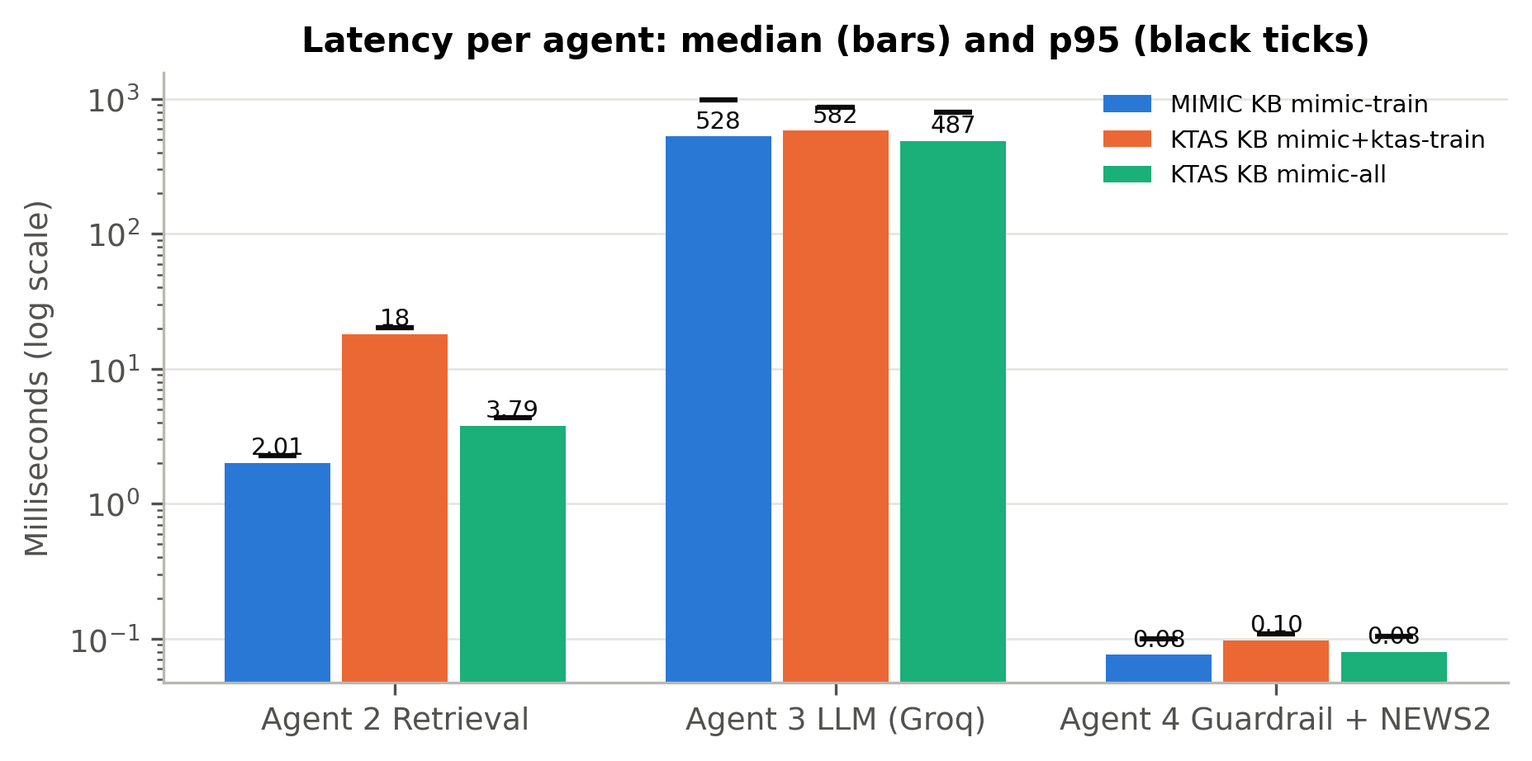
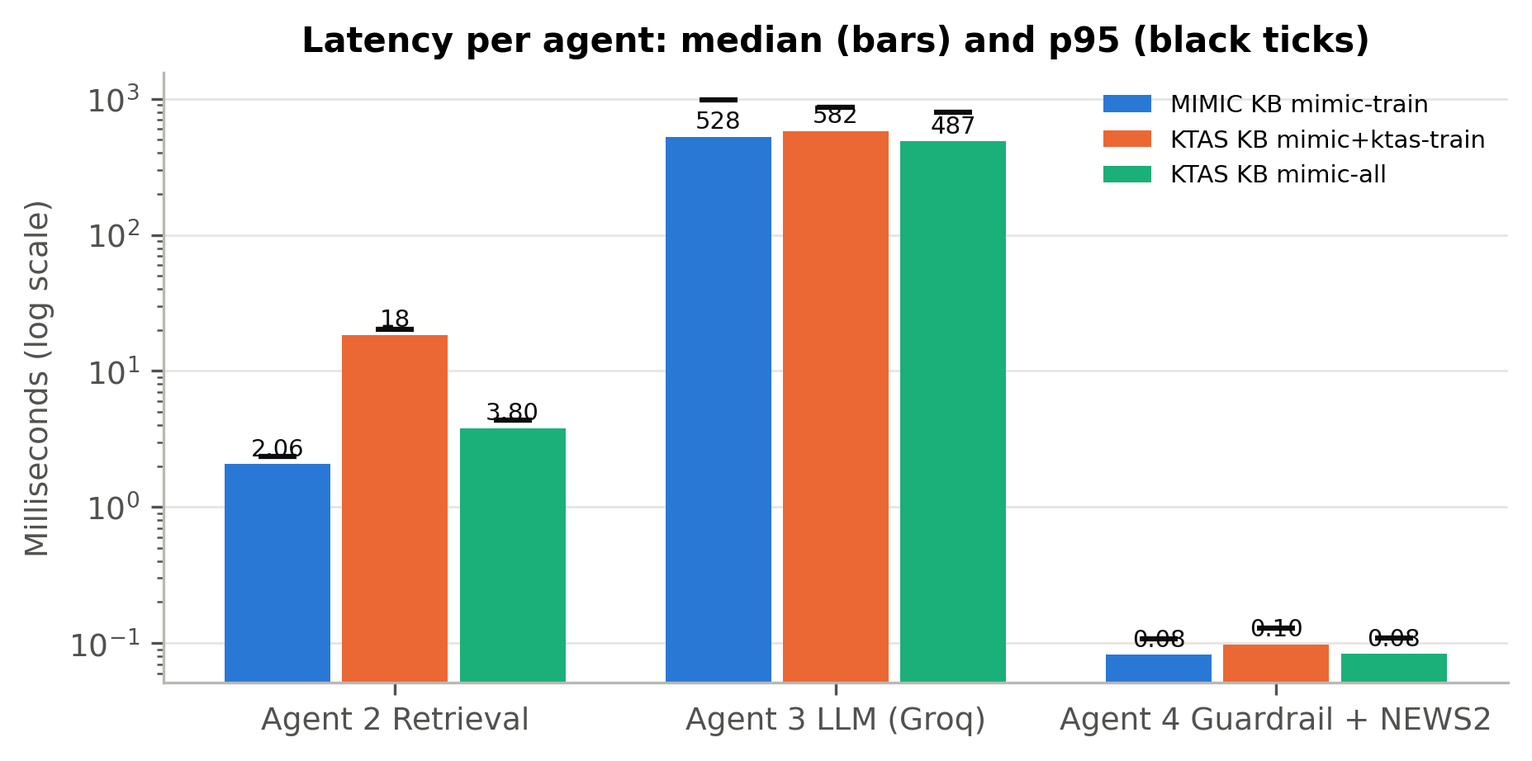
docs+eval: knowledge-base wording (two datasets, three EDs); KTAS MIMIC-only job extended to all 191 cases (required)
All three KTAS LLM jobs now cover the same 191 test cases. Frozen config hash unchanged;
decision recorded in frozen_config.json history, REPORT_FACTS.md and PROGRESS.md.

diff --git a/scripts/build_report_assets.py b/scripts/build_report_assets.py
@@ -222,7 +222,7 @@ def report_facts():
          "- KTAS vitals: Korean '측불' (unmeasurable) -> missing (SBP 25, DBP 29, HR 20, RR 22, BT 18, SpO2 9); SpO2 not recorded at the local ED (688 rows); BT deg C -> deg F", "",
          "## Knowledge base (Agent 2, multi-source; change decided 2026-11-22 before any result of the affected KTAS jobs)",
          "- Sources: two datasets -- MIMIC-IV-ED Demo (Beth Israel Deaconess Medical Center ED, Boston, USA; ESI) and KTAS (two Korean EDs, local + regional; KTAS_expert)",
-         "- Live system (Space) knowledge base: all 222 MIMIC-IV-ED stays + all 1,267 KTAS records = 1,489 cases (about 1,500)",
+         "- Live system (Space) knowledge base: all 222 MIMIC-IV-ED stays + all 1,267 KTAS records = 1,489 cases: about 1,500 records from two datasets (three emergency departments: one in the USA, two in South Korea)",
          "- Evaluation knowledge base for the KTAS main run: all 222 MIMIC-IV-ED stays + KTAS training split only (886) = 1,108 cases; KTAS validation (190) and test (191) records are never in it (runner.kb_frame raises KnowledgeBaseLeak; unit test)",
          "- MIMIC held-out evaluation unchanged: knowledge base = 114 protocol-v2 training stays; not re-run",
          "- Each retrieved case carries its source label ('MIMIC-IV-ED' or 'KTAS'): API field evidence_cases[].source / case_ref, Agent 2 trace output, Clinician Intake and Doctor Portal evidence tables",
@@ -241,7 +241,7 @@ def report_facts():
           "- Development-phase split (kept for the development results): patient-grouped stratified 70/15/15, 145/31/31 stays, file evaluation/splits/mimic_split.json",
           "- KTAS split method: stratified 70/15/15 on the 3-class expert label",
           "- KTAS main LLM evaluation: full test split, 191 cases (Low 81, Medium 73, High 37): S4 with KB = MIMIC-IV-ED + KTAS train, S3 on the same 191 cases",
-          f"- KTAS secondary S4 (KB = MIMIC-IV-ED only): stratified sample of {m['datasets']['ktas'].get('llm_subset', {}).get('n', 'n/a')} test cases (40 Low, 40 Medium, all 37 High), extended to all 191 only if the API budget allows",
+          f"- KTAS secondary S4 (KB = MIMIC-IV-ED only): stratified sample of {m['datasets']['ktas'].get('llm_subset', {}).get('n', 'n/a')} test cases (40 Low, 40 Medium, all 37 High) first, then the other 74 test cases, so all three KTAS LLM jobs (S4 multi-source KB, S3, S4 MIMIC-only KB) cover the same 191 cases",
           "- MIMIC held-out test knowledge base: the 114 training stays only (leakage control; unit test proves no test stay is retrieved)",
           "- LLM-free systems S0-S2: trained on the 114 training stays, tuned on the 62-stay development set, 5-fold patient-grouped CV on train + development (176 stays)",
           "- KTAS knowledge bases: main KB = MIMIC-IV-ED (222) + KTAS train (886); secondary KB = MIMIC-IV-ED only (222); the planned KB=KTAS-train-only LLM job was replaced by the multi-source job (S1 retrieval-only still reported for KB=KTAS-train and the multi-source KB)", ""]
@@ -319,7 +319,8 @@ def report_facts():
           "- Step 5: frozen system evaluated once on the new held-out MIMIC test split (S4, S3, S4-promptv1, S4-noNEWS2 from the same calls) and on KTAS (external, prompt v2 for every KTAS job)",
           "- LOW_EVIDENCE_THRESHOLD re-selected on 2026-11-22, before any held-out LLM run, with the same rule (largest accuracy drop unflagged - flagged, 10-40% flagged, candidates 0.300-0.700 step 0.025) on non-test data only: 5-fold patient-grouped out-of-fold retrieval votes (Agent 2) over the 114 training + 62 development stays (176); no held-out test stay involved; result 0.50 (flag rate 33.5%, accuracy flagged 61.0% vs unflagged 62.4%) = same value as the first selection, kept",
           "- Configuration re-frozen on 2026-11-22 after the threshold re-selection; config hash unchanged",
-          "- Step 6 (2026-11-22, decided before any result of the affected KTAS jobs): multi-source knowledge base (MIMIC-IV-ED + KTAS) as in Feature 2 'Multi-Source Evidence-Grounded Reasoning' of the submitted workflow; KTAS becomes the main evaluation (full 191-case test split; S4 KB = all MIMIC + KTAS train; S3 on the same cases); KB=KTAS-train-only job replaced; KB=MIMIC-only job kept (117, extended to 191 if budget allows); MIMIC held-out (31 stays) kept as a secondary check, not re-run; all other frozen settings unchanged",
+          "- Step 6 (2026-11-22, decided before any result of the affected KTAS jobs): multi-source knowledge base (MIMIC-IV-ED + KTAS) as in Feature 2 'Multi-Source Evidence-Grounded Reasoning' of the submitted workflow; KTAS becomes the main evaluation (full 191-case test split; S4 KB = all MIMIC + KTAS train; S3 on the same cases); KB=KTAS-train-only job replaced; KB=MIMIC-only job kept (117-case sample); MIMIC held-out (31 stays) kept as a secondary check, not re-run; all other frozen settings unchanged",
+          "- Step 7 (2026-11-22, student decision): the KB=MIMIC-only KTAS job is extended from the 117-case sample to all 191 test cases (74 more calls), so S4 multi-source KB, S3 and S4 MIMIC-only KB are compared on the same 191 cases",
           "", "## Live system facts",
           "- Example local run (High demo case): Agent 2 632 ms, Agent 3 1,224 ms (1,637 tokens), Agent 4 0.1 ms, Agent 5 12 ms (mocked)",
           "- Whisper base.en first transcription incl. model load: 19.3 s on CPU (demo clip, 9 s of speech)",

diff --git a/app.py b/app.py
@@ -650,8 +650,9 @@ def evaluation_markdown() -> str:
             r = k["nurse_all_records"]
             out += ["", f"Triage nurse on all {r['n']} KTAS records: accuracy {_fmt(r['accuracy'], True)}, macro-F1 "
                         f"{_fmt(r['f1_macro'])}, under-triage {_fmt(r['under_triage_rate'], True)}."]
-        if "llm_subset" in k:
-            out += ["", f"Same {k['llm_subset']['n']}-case stratified sample used by the secondary S4 run "
+        secondary = k.get("llm_systems", {}).get("ktas:S4:kb=mimic-all", {})
+        if "llm_subset" in k and not secondary.get("extended_to_full_test"):
+            out += ["", f"Same {k['llm_subset']['n']}-case stratified sample used by the secondary S4 run so far "
                         "(KB: MIMIC-IV-ED only):", "", _EVAL_HEADER]
             for sname, r in k["llm_subset"]["systems"].items():
                 out.append(_eval_row(f"{sname} {names.get(sname, '')}", r))
@@ -820,8 +821,9 @@ with gr.Blocks(title="NHS Triage Assistant", theme=gr.themes.Soft(primary_hue="s
 
     with gr.Tab("Evaluation"):
         gr.Markdown("### Offline evaluation (WP1) — reproducible with `python scripts/evaluate.py --all`")
-        gr.Markdown("**Knowledge base (Agent 2):** about 1,500 records from two datasets — 222 MIMIC-IV-ED Demo "
-                    "stays (one US hospital ED) and 1,267 KTAS records (two Korean EDs); every retrieved case shows "
+        gr.Markdown("**Knowledge base (Agent 2):** about 1,500 records from two datasets (three emergency "
+                    "departments: one in the USA, two in South Korea) — 222 MIMIC-IV-ED Demo stays and 1,267 KTAS "
+                    "records; every retrieved case shows "
                     "its source. **Main evaluation: KTAS** test split (191 cases), frozen configuration; the "
                     "evaluation knowledge base holds all MIMIC-IV-ED stays + the KTAS training split only. "
                     "**Secondary check:** MIMIC held-out test (31 stays, 9 patients), prompt developed on a separate "

diff --git a/evaluation/runner.py b/evaluation/runner.py
@@ -8,8 +8,8 @@ MIMIC protocol v2 (see evaluation/splits.py::make_mimic_v2):
                frozen configuration (evaluation/frozen_config.json). KB = remaining training patients.
 KTAS is the MAIN evaluation (since 2026-11-22) with the same frozen configuration: full test split (191 cases),
 multi-source knowledge base = all MIMIC-IV-ED stays + KTAS training split only (886). The secondary KB = MIMIC-only
-job keeps its 117-case stratified sample (test-sample) and is extended to the other 74 test cases (test-rest) only
-when the daily budget allows.
+job runs its 117-case stratified sample (test-sample) first and is then extended to the other 74 test cases
+(test-rest; student decision 2026-11-22), so all three KTAS LLM jobs cover the same 191 cases.
 """
 
 import logging
@@ -36,7 +36,7 @@ LLM_JOBS = [  # order = run order
     # --- KTAS main evaluation (frozen configuration; full test split, 191 cases) ---
     LLMJob("ktas:S4:kb=mimic+ktas-train", "ktas", "S4", "mimic-all+ktas-train"),
     LLMJob("ktas:S3:kb=none", "ktas", "S3", "none"),
-    # --- KTAS secondary: KB = MIMIC only (117-case sample; the 74-case extension runs last, if budget allows) ---
+    # --- KTAS secondary: KB = MIMIC only (117-case sample, then the 74-case extension -> same 191 cases) ---
     LLMJob("ktas:S4:kb=mimic-all", "ktas", "S4", "mimic-all", split="test-sample"),
     LLMJob("ktas:S4:kb=mimic-all:extension", "ktas", "S4", "mimic-all", split="test-rest"),
 ]

diff --git a/evaluation/report.py b/evaluation/report.py
@@ -342,8 +342,8 @@ def build_everything(bundle: Dict, job_results: Dict, llm_stats: Dict, llm_compl
             "ktas": ("MAIN evaluation with the frozen configuration (prompt v2), never used for development: full "
                      "test split (191 cases); S4 knowledge base = all MIMIC-IV-ED stays (222) + KTAS training split "
                      "only (886), KTAS validation/test never in the knowledge base; S3 on the same 191 cases; "
-                     "secondary S4 with KB = MIMIC-IV-ED only on a 117-case stratified sample (extended to 191 "
-                     "if the budget allows)"),
+                     "secondary S4 with KB = MIMIC-IV-ED only on the same 191 cases (117-case stratified sample "
+                     "first, then the other 74)"),
             "knowledge_base": frozen_record().get("knowledge_base"),
             "frozen_config": frozen_record(),
             "live_config_matches_frozen": config_hash(current_config()) == frozen_record()["sha256"],

diff --git a/evaluation/frozen.py b/evaluation/frozen.py
@@ -37,7 +37,8 @@ KNOWLEDGE_BASE = {
     "live_system": "all MIMIC-IV-ED Demo stays (222) + all KTAS records (1,267) = 1,489 cases, two sources",
     "evaluation_ktas_main": "all MIMIC-IV-ED Demo stays (222) + KTAS training split only (886) = 1,108 cases; "
                             "KTAS validation (190) and test (191) never in the knowledge base",
-    "evaluation_ktas_secondary": "MIMIC-IV-ED only (222 stays; 117-case sample, extended to 191 if budget allows)",
+    "evaluation_ktas_secondary": "MIMIC-IV-ED only (222 stays) on the same 191 KTAS test cases (117-case sample "
+                                 "first, then the other 74; extension made required on 2026-11-22)",
     "evaluation_mimic_heldout": "MIMIC protocol-v2 training stays only (114); unchanged, not re-run",
     "source_labels": ["MIMIC-IV-ED", "KTAS"],
     "llm_evidence_text": "each retrieved case is prefixed with 'Source: <label>' when the knowledge base has more "

diff --git a/report_assets/REPORT_FACTS.md b/report_assets/REPORT_FACTS.md
@@ -1,6 +1,6 @@
 # REPORT FACTS (bullet facts and numbers only -- not report text)
 
-- Source: `evaluation/results/metrics.json` generated 2026-11-22T12:13:52Z; seed 42
+- Source: `evaluation/results/metrics.json` generated 2026-11-22T12:21:34Z; seed 42
 - All LLM runs complete: False
 
 ## Datasets
@@ -16,7 +16,7 @@
 
 ## Knowledge base (Agent 2, multi-source; change decided 2026-11-22 before any result of the affected KTAS jobs)
 - Sources: two datasets -- MIMIC-IV-ED Demo (Beth Israel Deaconess Medical Center ED, Boston, USA; ESI) and KTAS (two Korean EDs, local + regional; KTAS_expert)
-- Live system (Space) knowledge base: all 222 MIMIC-IV-ED stays + all 1,267 KTAS records = 1,489 cases (about 1,500)
+- Live system (Space) knowledge base: all 222 MIMIC-IV-ED stays + all 1,267 KTAS records = 1,489 cases: about 1,500 records from two datasets (three emergency departments: one in the USA, two in South Korea)
 - Evaluation knowledge base for the KTAS main run: all 222 MIMIC-IV-ED stays + KTAS training split only (886) = 1,108 cases; KTAS validation (190) and test (191) records are never in it (runner.kb_frame raises KnowledgeBaseLeak; unit test)
 - MIMIC held-out evaluation unchanged: knowledge base = 114 protocol-v2 training stays; not re-run
 - Each retrieved case carries its source label ('MIMIC-IV-ED' or 'KTAS'): API field evidence_cases[].source / case_ref, Agent 2 trace output, Clinician Intake and Doctor Portal evidence tables
@@ -37,7 +37,7 @@
 - Development-phase split (kept for the development results): patient-grouped stratified 70/15/15, 145/31/31 stays, file evaluation/splits/mimic_split.json
 - KTAS split method: stratified 70/15/15 on the 3-class expert label
 - KTAS main LLM evaluation: full test split, 191 cases (Low 81, Medium 73, High 37): S4 with KB = MIMIC-IV-ED + KTAS train, S3 on the same 191 cases
-- KTAS secondary S4 (KB = MIMIC-IV-ED only): stratified sample of 117 test cases (40 Low, 40 Medium, all 37 High), extended to all 191 only if the API budget allows
+- KTAS secondary S4 (KB = MIMIC-IV-ED only): stratified sample of 117 test cases (40 Low, 40 Medium, all 37 High) first, then the other 74 test cases, so all three KTAS LLM jobs (S4 multi-source KB, S3, S4 MIMIC-only KB) cover the same 191 cases
 - MIMIC held-out test knowledge base: the 114 training stays only (leakage control; unit test proves no test stay is retrieved)
 - LLM-free systems S0-S2: trained on the 114 training stays, tuned on the 62-stay development set, 5-fold patient-grouped CV on train + development (176 stays)
 - KTAS knowledge bases: main KB = MIMIC-IV-ED (222) + KTAS train (886); secondary KB = MIMIC-IV-ED only (222); the planned KB=KTAS-train-only LLM job was replaced by the multi-source job (S1 retrieval-only still reported for KB=KTAS-train and the multi-source KB)
@@ -71,10 +71,10 @@
 - McNemar mimic:S4:kb=mimic-train vs S4-noNEWS2: 0 vs 0 discordant, exact p = 1.0000
 - McNemar mimic:S4:kb=mimic-train vs mimic:S3:kb=none: 1 vs 5 discordant, exact p = 0.2188
 - McNemar mimic:S4:kb=mimic-train vs mimic:S4-promptv1:kb=mimic-train: 10 vs 2 discordant, exact p = 0.0386
-- Agent performance mimic:S4:kb=mimic-train: first-pass guardrail validity 100.0%, repair rate 0.0%, failed 0, NEWS2 overrides 0, weak-evidence flags 22.6%, median latency Agent 2 2.0 ms / Agent 3 528 ms (p95 980) / Agent 4 0.08 ms, tokens per case 1643
+- Agent performance mimic:S4:kb=mimic-train: first-pass guardrail validity 100.0%, repair rate 0.0%, failed 0, NEWS2 overrides 0, weak-evidence flags 22.6%, median latency Agent 2 2.1 ms / Agent 3 528 ms (p95 980) / Agent 4 0.08 ms, tokens per case 1643
 - Evidence sources mimic:S4:kb=mimic-train (all retrieved cases): MIMIC-IV-ED 100.0%
 - Agent performance mimic:S3:kb=none: first-pass guardrail validity 100.0%, repair rate 0.0%, failed 0, NEWS2 overrides 0, weak-evidence flags 100.0%, median latency Agent 2 0.0 ms / Agent 3 502 ms (p95 641) / Agent 4 0.07 ms, tokens per case 1176
-- Agent performance mimic:S4-promptv1:kb=mimic-train: first-pass guardrail validity 100.0%, repair rate 0.0%, failed 0, NEWS2 overrides 1, weak-evidence flags 22.6%, median latency Agent 2 2.0 ms / Agent 3 440 ms (p95 810) / Agent 4 0.07 ms, tokens per case 1435
+- Agent performance mimic:S4-promptv1:kb=mimic-train: first-pass guardrail validity 100.0%, repair rate 0.0%, failed 0, NEWS2 overrides 1, weak-evidence flags 22.6%, median latency Agent 2 2.0 ms / Agent 3 440 ms (p95 810) / Agent 4 0.08 ms, tokens per case 1435
 - Evidence sources mimic:S4-promptv1:kb=mimic-train (all retrieved cases): MIMIC-IV-ED 100.0%
 - Weak-evidence flag mimic:S4:kb=mimic-train: flagged n=7 accuracy 57.1% under-triage 42.9%; not flagged n=24 accuracy 45.8% under-triage 8.3%
 - Subgroup S2b by sex: F n=11 acc 81.8% under 9.1%; M n=20 acc 65.0% under 15.0%
@@ -109,7 +109,7 @@
 - McNemar ktas:S4:kb=mimic-all vs S2b: 6 vs 4 discordant, exact p = 0.7539
 - McNemar ktas:S4:kb=mimic-all vs S4-noNEWS2: 0 vs 0 discordant, exact p = 1.0000
 - McNemar ktas:S4:kb=mimic-all vs H: 9 vs 4 discordant, exact p = 0.2668
-- Agent performance ktas:S4:kb=mimic+ktas-train: first-pass guardrail validity 100.0%, repair rate 0.0%, failed 0, NEWS2 overrides 1, weak-evidence flags 6.5%, median latency Agent 2 18.1 ms / Agent 3 582 ms (p95 867) / Agent 4 0.10 ms, tokens per case 1534
+- Agent performance ktas:S4:kb=mimic+ktas-train: first-pass guardrail validity 100.0%, repair rate 0.0%, failed 0, NEWS2 overrides 1, weak-evidence flags 6.5%, median latency Agent 2 18.4 ms / Agent 3 582 ms (p95 867) / Agent 4 0.10 ms, tokens per case 1534
 - Evidence sources ktas:S4:kb=mimic+ktas-train (all retrieved cases): KTAS 88.7%, MIMIC-IV-ED 11.3%
 - Agent performance ktas:S4:kb=mimic-all: first-pass guardrail validity 100.0%, repair rate 0.0%, failed 0, NEWS2 overrides 0, weak-evidence flags 17.9%, median latency Agent 2 3.8 ms / Agent 3 487 ms (p95 798) / Agent 4 0.08 ms, tokens per case 1654
 - Evidence sources ktas:S4:kb=mimic-all (all retrieved cases): MIMIC-IV-ED 100.0%
@@ -132,7 +132,8 @@
 - Step 5: frozen system evaluated once on the new held-out MIMIC test split (S4, S3, S4-promptv1, S4-noNEWS2 from the same calls) and on KTAS (external, prompt v2 for every KTAS job)
 - LOW_EVIDENCE_THRESHOLD re-selected on 2026-11-22, before any held-out LLM run, with the same rule (largest accuracy drop unflagged - flagged, 10-40% flagged, candidates 0.300-0.700 step 0.025) on non-test data only: 5-fold patient-grouped out-of-fold retrieval votes (Agent 2) over the 114 training + 62 development stays (176); no held-out test stay involved; result 0.50 (flag rate 33.5%, accuracy flagged 61.0% vs unflagged 62.4%) = same value as the first selection, kept
 - Configuration re-frozen on 2026-11-22 after the threshold re-selection; config hash unchanged
-- Step 6 (2026-11-22, decided before any result of the affected KTAS jobs): multi-source knowledge base (MIMIC-IV-ED + KTAS) as in Feature 2 'Multi-Source Evidence-Grounded Reasoning' of the submitted workflow; KTAS becomes the main evaluation (full 191-case test split; S4 KB = all MIMIC + KTAS train; S3 on the same cases); KB=KTAS-train-only job replaced; KB=MIMIC-only job kept (117, extended to 191 if budget allows); MIMIC held-out (31 stays) kept as a secondary check, not re-run; all other frozen settings unchanged
+- Step 6 (2026-11-22, decided before any result of the affected KTAS jobs): multi-source knowledge base (MIMIC-IV-ED + KTAS) as in Feature 2 'Multi-Source Evidence-Grounded Reasoning' of the submitted workflow; KTAS becomes the main evaluation (full 191-case test split; S4 KB = all MIMIC + KTAS train; S3 on the same cases); KB=KTAS-train-only job replaced; KB=MIMIC-only job kept (117-case sample); MIMIC held-out (31 stays) kept as a secondary check, not re-run; all other frozen settings unchanged
+- Step 7 (2026-11-22, student decision): the KB=MIMIC-only KTAS job is extended from the 117-case sample to all 191 test cases (74 more calls), so S4 multi-source KB, S3 and S4 MIMIC-only KB are compared on the same 191 cases
 
 ## Live system facts
 - Example local run (High demo case): Agent 2 632 ms, Agent 3 1,224 ms (1,637 tokens), Agent 4 0.1 ms, Agent 5 12 ms (mocked)

diff --git a/PROGRESS.md b/PROGRESS.md
@@ -8,15 +8,16 @@ Python: global `Python 3.12.10` (no project venv; all requirements already insta
 - **Current step (22 Nov 2026, KB change):** multi-source knowledge base implemented (student instruction, decided before any result of the affected KTAS jobs). Live KB = 222 MIMIC-IV-ED stays + 1,267 KTAS records (`data/external/ktas/ktas_kb.csv`, `scripts/build_ktas_kb.py`, `KB_INCLUDE_KTAS`); evaluation KB for KTAS main = 222 MIMIC + 886 KTAS train (leak guard `runner.kb_frame`). Source label on every retrieved case (API, trace, UI, LLM text only for multi-source KBs). KTAS = main evaluation (191 test cases). Frozen hash unchanged; `knowledge_base` block + history entry in `evaluation/frozen_config.json`. Day-3 batch next. Do NOT redeploy the Space until every LLM job is complete.
 - **Daily routine (student asks each day):** `git checkout feature/cn7050-final` -> `python scripts/evaluate.py --llm-only --max-llm-calls 120` -> `python scripts/evaluate.py --all --offline` -> `python scripts/build_report_assets.py` -> `python -m pytest -q` -> commit + push to GitHub (no Space deploy). Report remaining cases.
 - **After the last LLM job:** same rebuild, PR feature -> main, merge, redeploy Space once (space-deploy snapshot: `git checkout space-deploy && git checkout main -- . && git add -A && git add --renormalize . && git commit && git push space space-deploy:main`), smoke test; then Twilio sandbox help.
-- **LLM job order (`evaluation/runner.py::LLM_JOBS`):** ktas:S4:kb=mimic+ktas-train (191) -> ktas:S3:kb=none (191) -> ktas:S4:kb=mimic-all (117 sample, 28 cached) -> ktas:S4:kb=mimic-all:extension (other 74, optional, merged into the base job when complete). MIMIC held-out jobs are complete and are not re-run.
+- **LLM job order (`evaluation/runner.py::LLM_JOBS`):** ktas:S4:kb=mimic+ktas-train (191) -> ktas:S3:kb=none (191) -> ktas:S4:kb=mimic-all (117 sample, 28 cached) -> ktas:S4:kb=mimic-all:extension (other 74, REQUIRED since the student decision of 22 Nov, merged into the base job when complete -> all three KTAS LLM jobs on the same 191 cases). MIMIC held-out jobs are complete and are not re-run.
 - **Day-3 batch (22 Nov, after the KB change):** 62 API calls (95,108 tokens, ~1,534/call), then Groq 429 tokens-per-day (rolling 24 h window still held the day-2 batch). KTAS S4 kb=mimic+ktas-train 62/191. Partial KTAS numbers are NOT representative: test rows keep the file order and the nurse is 62.9% on the first 62 test cases vs 87.9% on all 191 -- compare systems only on the same cases, final numbers only at 191.
-- **LLM work remaining (after day 3):** required 409 calls (main S4 129 + S3 191 + S4 kb=mimic-all 89), optional extension 74 -> 483 total; ~4 more days at ~120/day (120/120/120/49 required; the 74 extension fits on day 4-5). Run each batch >= 24 h after the previous one so the full 200K TPD is free.
+- **LLM work remaining (after day 3):** 483 calls, all required (main S4 129 + S3 191 + S4 kb=mimic-all 89 + extension 74) -> ~4 more days at ~120/day (120/120/120/123). Run each batch >= 24 h after the previous one so the full 200K TPD is free.
 - **MIMIC protocol v2 (student instruction, 21 Nov):** old validation + old test = DEVELOPMENT set (62 stays / 26 patients; prompt v1 -> v2 developed here; all LLM results so far are development results). New HELD-OUT test = 31 stays / 9 patients from old-train patients only (`evaluation/splits/mimic_split_v2.json`); train/KB = 114 stays / 21 patients. LLM-free S0-S2 re-tuned on the development set, CV on train + development.
 - **Frozen configuration:** `evaluation/frozen_config.json` (sha256 77522c1b1d959477...): prompt v2 + weak rule + repair template hashes, model settings, weights, k=5, LOW_EVIDENCE_THRESHOLD 0.50, agreement 0.6, repairs 2, NEWS2 on. `evaluation/frozen.py::assert_frozen` blocks every held-out/KTAS job if anything differs; every KTAS job uses prompt v2 (test enforces it). NO CHANGES to prompt/threshold/weights after this point.
 - **Agent 4 latency fix:** guardrail time is measured per attempt (`guardrail_ms`); Agent 4 latency = guardrail + NEWS2 (was derived by subtracting the cached original API latency -> negative). Test `tests/test_agent_timings.py`. Development-set median now 0.09 ms.
 - **Development results (not held-out):** S4 v2 on 62 development stays: acc 59.7%, macro-F1 0.381, High recall 85.3%, under-triage 12.9%. S4-promptv1 on 31 development stays: acc 29.0%, under-triage 64.5%.
 - **Held-out LLM-free (MIMIC, 31 stays):** S1 71.0% / under 6.5%; S2a 67.7%; S2b 71.0% / under 12.9%; best by development macro-F1 = S2a.
 - **Held-out MIMIC (frozen, run once, 31 stays):** S4 acc 48.4% / High recall 76.5% / under-triage 16.1%; S3 61.3% / 70.6% / 19.4%; S4-promptv1 22.6% / 29.4% / 74.2%; S1 71.0% / 88.2% / 6.5%; S2b 71.0% / 76.5% / 12.9%; McNemar S4 vs S2a p=0.21, S4 vs S3 p=0.22; NEWS2 overrides 0; weak flag: flagged 7 acc 57.1% vs not flagged 24 acc 45.8%.
+- **Wording (student, 22 Nov):** "about 1,500 records from two datasets (three emergency departments: one in the USA, two in South Korea)" (README, Evaluation tab, REPORT_FACTS).
 - **Tests:** 133 passing (new `tests/test_multi_source_kb.py`).
 - **Unused cache entries:** 10 calls of the old (development-phase) S3 job; kept in the cache, not reported.
 - **Local helpers:** ffmpeg at `.local/bin/ffmpeg.exe` (imageio-ffmpeg); demo DB copy `.local/demo.db`; demo audio `demo/demo_patient_chest_pain.wav`.

diff --git a/README.md b/README.md
@@ -12,7 +12,7 @@ pinned: false
 
 # AI-Powered Clinical Triage Assistant
 
-A clinical decision support system (CDSS) for Emergency Departments. A patient describes their symptoms by voice (or a clinician types them), the system retrieves similar historical cases from a **multi-source knowledge base** (MIMIC-IV-ED + KTAS, about 1,500 records), an LLM proposes a 3-tier triage level (High / Medium / Low) grounded in that evidence, and on-call staff are alerted on WhatsApp for High-priority cases. Clinicians review every decision, and the system monitors its own accuracy, data drift and bias after deployment.
+A clinical decision support system (CDSS) for Emergency Departments. A patient describes their symptoms by voice (or a clinician types them), the system retrieves similar historical cases from a **multi-source knowledge base** (MIMIC-IV-ED + KTAS: about 1,500 records from two datasets (three emergency departments: one in the USA, two in South Korea)), an LLM proposes a 3-tier triage level (High / Medium / Low) grounded in that evidence, and on-call staff are alerted on WhatsApp for High-priority cases. Clinicians review every decision, and the system monitors its own accuracy, data drift and bias after deployment.
 
 > **Decision support only.** Every output is a draft for clinician review. The system never makes the final triage decision.
 
@@ -111,7 +111,7 @@ python scripts/evaluate.py --all              # everything; LLM calls are cached
 python scripts/evaluate.py --all --offline    # reproduce every number from the committed cache, no API calls
 ```
 
-- **Main evaluation: KTAS** (Moon et al., 2019), stratified 70/15/15 (886/190/191), never used for development. S4 (full system) and S3 (LLM only) run on the **full 191-case test split** with the frozen configuration. S4's knowledge base = all 222 MIMIC-IV-ED stays + the **KTAS training split only** (886 records); KTAS validation and test records are never in the evaluation knowledge base (`evaluation/runner.py::kb_frame` refuses, and a unit test checks it). The triage nurse (`KTAS_RN`) and the LLM-free baselines are scored on the same 191 cases, and the nurse also on all 1,267 records. A secondary S4 run uses KB = MIMIC-IV-ED only (117-case stratified sample, extended to 191 when the API budget allows).
+- **Main evaluation: KTAS** (Moon et al., 2019), stratified 70/15/15 (886/190/191), never used for development. S4 (full system) and S3 (LLM only) run on the **full 191-case test split** with the frozen configuration. S4's knowledge base = all 222 MIMIC-IV-ED stays + the **KTAS training split only** (886 records); KTAS validation and test records are never in the evaluation knowledge base (`evaluation/runner.py::kb_frame` refuses, and a unit test checks it). The triage nurse (`KTAS_RN`) and the LLM-free baselines are scored on the same 191 cases, and the nurse also on all 1,267 records. A secondary S4 run uses KB = MIMIC-IV-ED only on the same 191 cases (a 117-case stratified sample first, then the other 74), so all three KTAS LLM jobs cover the same 191 cases.
 - **Secondary check: MIMIC held-out.** Prompt v1 → v2 was developed on a **development set** (62 stays, 26 patients). The configuration (prompt v2, retrieval weights, k, evidence threshold, repair attempts, NEWS2) was then **frozen** (`evaluation/frozen_config.json`; held-out runs refuse to start if it changes) and evaluated **once** on a new **held-out test split** (31 stays, 9 patients that were never an LLM query; `evaluation/splits/mimic_split_v2.json`). Training / knowledge base: the remaining 114 stays (21 patients). No patient is in two sets.
 - The knowledge-base change (2026-11-22) was decided before any result of the affected KTAS jobs; everything else in the frozen configuration is unchanged (see the `knowledge_base` block and history in `evaluation/frozen_config.json`). Seed 42 everywhere.
 - Leakage control: during MIMIC evaluation the evidence index holds training stays only (`find_similar_cases(..., allowed_stay_ids=...)` / `index=`); a test proves a test stay never retrieves itself.
@@ -129,7 +129,7 @@ Headline numbers: see `evaluation/results/summary.md` (regenerated by the comman
 | MIMIC-IV-ED Demo v2.2 (`data/*.csv`, loaded into `triage_data.db`) | Knowledge base for Agent 2 + internal evaluation | 64 patients, 222 ED stays, 207 with ESI acuity | ESI 1–2 High (115), 3 Medium (90), 4–5 Low (2) |
 | KTAS, Moon et al. (2019) *PLoS ONE* 14(9) e0216972 (`data/external/ktas/`, CC BY 4.0) | Second knowledge-base source for Agent 2 (live: all records; evaluation: training split only) + **main evaluation** | 1,267 adult ED visits, 2 Korean EDs | `KTAS_expert` (truth): High 246, Medium 487, Low 534; `KTAS_RN` = nurse baseline (never in the knowledge base) |
 
-Together the live knowledge base holds **1,489 records (about 1,500)** from two datasets: one US hospital ED (MIMIC-IV-ED) and two Korean EDs (KTAS).
+The live knowledge base holds 1,489 cases: **about 1,500 records from two datasets (three emergency departments: one in the USA, two in South Korea)**.
 
 `python -m scripts.download_ktas` re-downloads the KTAS file from the journal and checks its SHA-256; `python scripts/build_ktas_kb.py` rebuilds the KTAS knowledge-base file from it. Cleaning steps and row counts: `report_assets/preprocessing.md`.
 

diff --git a/evaluation/results/summary.md b/evaluation/results/summary.md
@@ -1,8 +1,8 @@
 # Evaluation summary (tables only)
 
-Protocol: MIMIC protocol v2: development set = old validation + old test splits (62 stays, 26 patients; prompt v1 -> v2 developed here, LLM-free tuning uses it); held-out test = 31 stays from 9 patients drawn from the old training patients only (never an LLM query before), evaluated once with the frozen configuration; knowledge base and ML training data for the test run = remaining 114 stays / 21 patients. KTAS: MAIN evaluation with the frozen configuration (prompt v2), never used for development: full test split (191 cases); S4 knowledge base = all MIMIC-IV-ED stays (222) + KTAS training split only (886), KTAS validation/test never in the knowledge base; S3 on the same 191 cases; secondary S4 with KB = MIMIC-IV-ED only on a 117-case stratified sample (extended to 191 if the budget allows). Frozen configuration sha256 77522c1b1d959477... (live config matches: True).
+Protocol: MIMIC protocol v2: development set = old validation + old test splits (62 stays, 26 patients; prompt v1 -> v2 developed here, LLM-free tuning uses it); held-out test = 31 stays from 9 patients drawn from the old training patients only (never an LLM query before), evaluated once with the frozen configuration; knowledge base and ML training data for the test run = remaining 114 stays / 21 patients. KTAS: MAIN evaluation with the frozen configuration (prompt v2), never used for development: full test split (191 cases); S4 knowledge base = all MIMIC-IV-ED stays (222) + KTAS training split only (886), KTAS validation/test never in the knowledge base; S3 on the same 191 cases; secondary S4 with KB = MIMIC-IV-ED only on the same 191 cases (117-case stratified sample first, then the other 74). Frozen configuration sha256 77522c1b1d959477... (live config matches: True).
 
-Generated 2026-11-22T12:13:52Z by `python scripts/evaluate.py --all`; seed 42. LLM: openai/gpt-oss-20b, temperature 0.0, reasoning_effort low. All LLM runs complete: False.
+Generated 2026-11-22T12:21:34Z by `python scripts/evaluate.py --all`; seed 42. LLM: openai/gpt-oss-20b, temperature 0.0, reasoning_effort low. All LLM runs complete: False.
 
 ## MIMIC
 
@@ -81,9 +81,9 @@ Method: 5-fold StratifiedGroupKFold on subject_id (train + development set, held
 |---|---|---|---|---|---|---|---|---|---|---|
 | DEVELOPMENT mimic-dev:S4:kb=mimic-dev-train | 62 | 100.0% | 0.0% | 0 | 0 | 29.0% | 2.4 | 598 / 973 | 0.08 | 1671 |
 | DEVELOPMENT mimic-dev:S4-promptv1:kb=mimic-dev-train | 31 | 100.0% | 0.0% | 0 | 0 | 38.7% | 2.4 | 635 / 5642 | 0.08 | 1452 |
-| mimic:S4:kb=mimic-train | 31 | 100.0% | 0.0% | 0 | 0 | 22.6% | 2.0 | 528 / 980 | 0.08 | 1643 |
+| mimic:S4:kb=mimic-train | 31 | 100.0% | 0.0% | 0 | 0 | 22.6% | 2.1 | 528 / 980 | 0.08 | 1643 |
 | mimic:S3:kb=none | 31 | 100.0% | 0.0% | 0 | 0 | 100.0% | 0.0 | 502 / 641 | 0.07 | 1176 |
-| mimic:S4-promptv1:kb=mimic-train | 31 | 100.0% | 0.0% | 0 | 1 | 22.6% | 2.0 | 440 / 810 | 0.07 | 1435 |
+| mimic:S4-promptv1:kb=mimic-train | 31 | 100.0% | 0.0% | 0 | 1 | 22.6% | 2.0 | 440 / 810 | 0.08 | 1435 |
 
 ### Weak-evidence flag (S4)
 
@@ -201,7 +201,7 @@ Method: 5-fold StratifiedKFold (train+validation, test untouched)
 
 | Job | Cases | First-pass valid | Repair rate | Failed | NEWS2 overrides | Weak-evidence flags | Agent 2 ms (median) | Agent 3 ms (median / p95) | Agent 4 ms (median) | Tokens/case |
 |---|---|---|---|---|---|---|---|---|---|---|
-| ktas:S4:kb=mimic+ktas-train | 62 | 100.0% | 0.0% | 0 | 1 | 6.5% | 18.1 | 582 / 867 | 0.10 | 1534 |
+| ktas:S4:kb=mimic+ktas-train | 62 | 100.0% | 0.0% | 0 | 1 | 6.5% | 18.4 | 582 / 867 | 0.10 | 1534 |
 | ktas:S4:kb=mimic-all | 28 | 100.0% | 0.0% | 0 | 0 | 17.9% | 3.8 | 487 / 798 | 0.08 | 1654 |
 
 ### Weak-evidence flag (S4)
